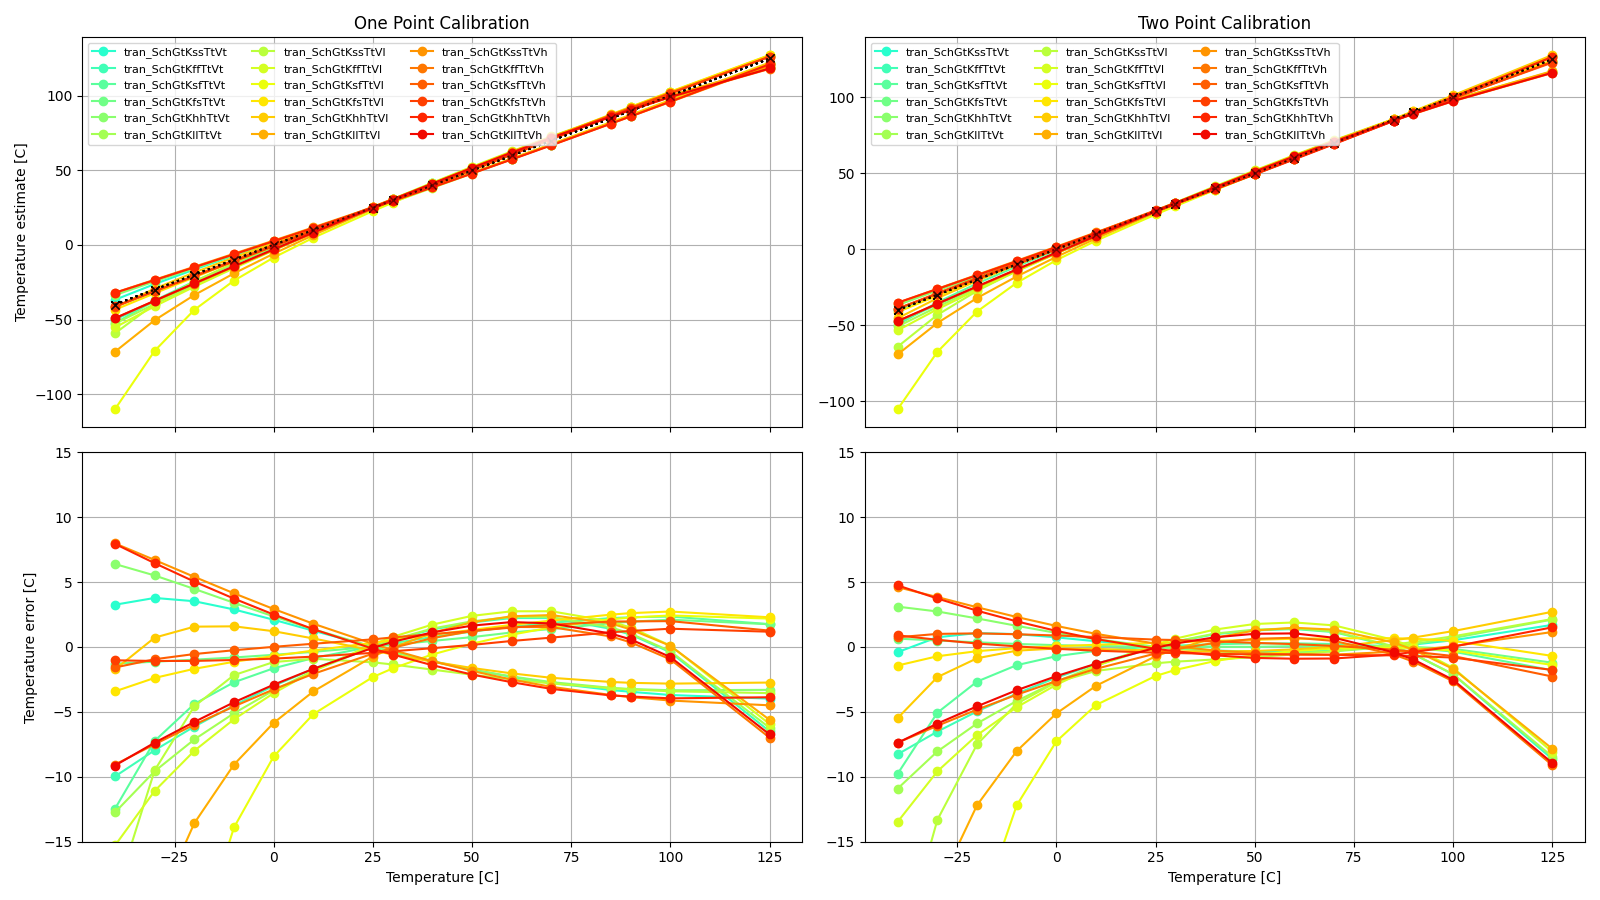
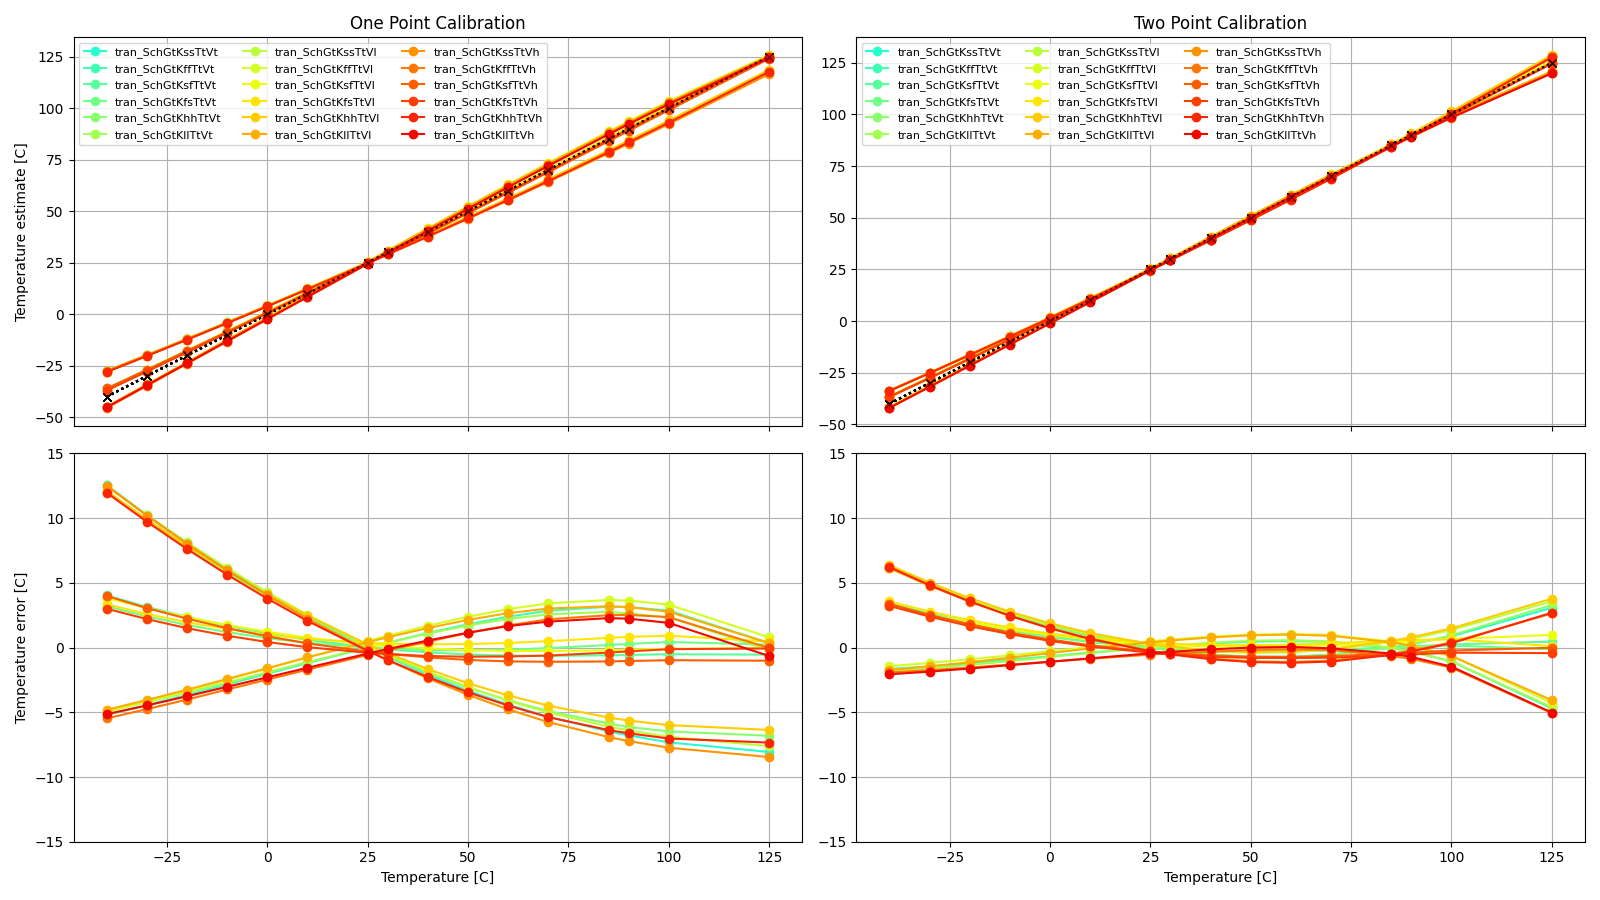
sim(LELO_TEMP): re-run Sch and Lay, refresh results and README plots
Full Sch suite (calibrate typical/process/mc, tran typical + 18
corners + 10x MC) and both Lay runs (typical, supply) re-run against
today's layout -- the strapped rings, the completed top routing and
the antenna diodes, none of which the old results had seen. The three
plots the top README embeds are regenerated from the fresh runs; the
per-run tables live in sim/LELO_TEMP/README.md (results/ artifacts
stay local by the repo's ignore policy).

THE LAY RUNS NEEDED THEIR OWN CALIBRATION. tran.py pairs a tran run
with the calibrate run of the SAME view, and only Sch calibration had
been refreshed: the fresh Lay tran against the stale Lay calibration
reported ind_1p_min at -20.4 C, which read like the layout had broken.
With calibrate re-run on the extracted view, Lay is honest:
ind_1p +11.2/-8.2 C, inside the +/-15 spec.

What the fresh table flags, all real:

  * idd_25 fast corner: 107.8 uA against the 100 uA spec max.
  * freq_min: the -40 C frequency sits under the 1.5 MHz spec floor
    in slow corners (Sch 1.35, MC -3std 1.28) -- and the extraction's
    ~18% uniform slowdown puts Lay typical-cold there too (1.40).
  * FOM MC low end goes negative at 3 sigma on a 10-sample run.

Also in this commit: the README's "How it works" / "How to test"
sections (the TT docs source) with the wording tightened.

Claude-Session: https://claude.ai/code/session_01V2NXKz4pJqzwkkQt9GQ19N

diff --git a/sim/LELO_TEMP/README.md b/sim/LELO_TEMP/README.md
@@ -15,81 +15,81 @@ Sch corners already bound the process spread.
 |**Name**|**Parameter**|**Description**| |**Min**|**Typ**|**Max**| Unit|
 |:---|:---|:---|---:|:---:|:---:|:---:| ---:|
 ||**idd\_25** || **Spec**  | **5.000** | **30.000** | **100.000** | **uA** |
-| | | |<a href='results/tran_Sch_typical.html'>Sch_typ</a>| | 76.304 |  | |
-| | | |<a href='results/tran_Sch_etc.html'>Sch_etc</a>|50.720 | 76.415 | <span style='color:red'>**105.687**</span> | |
-| | | |<a href='results/tran_Sch_mc.html'>Sch_3std</a>|66.503 | 75.053 | 83.604 | |
-| | | |<a href='results/tran_Lay_typical.html'>Lay_typ</a>| | 75.585 |  | |
-| | | |<a href='results/tran_Lay_supply.html'>Lay_supply</a>|64.334 | 75.585 | 85.807 | |
+| | | |<a href='results/tran_Sch_typical.html'>Sch_typ</a>| | 84.387 |  | |
+| | | |<a href='results/tran_Sch_etc.html'>Sch_etc</a>|64.320 | 84.426 | <span style='color:red'>**107.774**</span> | |
+| | | |<a href='results/tran_Sch_mc.html'>Sch_3std</a>|73.500 | 83.903 | 94.306 | |
+| | | |<a href='results/tran_Lay_typical.html'>Lay_typ</a>| | 83.073 |  | |
+| | | |<a href='results/tran_Lay_supply.html'>Lay_supply</a>|76.911 | 83.073 | 88.967 | |
 ||**iddq\_25** || **Spec**  | **0.000** | **10.000** | **50.000** | **nA** |
-| | | |<a href='results/tran_Sch_typical.html'>Sch_typ</a>| | 5.981 |  | |
-| | | |<a href='results/tran_Sch_etc.html'>Sch_etc</a>|5.914 | 6.267 | 45.647 | |
-| | | |<a href='results/tran_Sch_mc.html'>Sch_3std</a>|5.870 | 6.014 | 6.158 | |
-| | | |<a href='results/tran_Lay_typical.html'>Lay_typ</a>| | 8.730 |  | |
-| | | |<a href='results/tran_Lay_supply.html'>Lay_supply</a>|8.186 | 8.730 | 9.154 | |
+| | | |<a href='results/tran_Sch_typical.html'>Sch_typ</a>| | 7.140 |  | |
+| | | |<a href='results/tran_Sch_etc.html'>Sch_etc</a>|6.943 | 7.488 | 46.459 | |
+| | | |<a href='results/tran_Sch_mc.html'>Sch_3std</a>|6.872 | 7.148 | 7.424 | |
+| | | |<a href='results/tran_Lay_typical.html'>Lay_typ</a>| | 11.061 |  | |
+| | | |<a href='results/tran_Lay_supply.html'>Lay_supply</a>|10.164 | 11.061 | 11.753 | |
 ||**ind\_1p\_max** |Industrial 1 point calibration| **Spec**  | **-15.000** | **0.000** | **15.000** | **C** |
-| | | |<a href='results/tran_Sch_typical.html'>Sch_typ</a>| | 2.087 |  | |
-| | | |<a href='results/tran_Sch_etc.html'>Sch_etc</a>|-0.907 | 2.329 | 7.975 | |
-| | | |<a href='results/tran_Sch_mc.html'>Sch_3std</a>|-2.308 | 4.140 | 10.589 | |
-| | | |<a href='results/tran_Lay_typical.html'>Lay_typ</a>| | 4.400 |  | |
-| | | |<a href='results/tran_Lay_supply.html'>Lay_supply</a>|-0.761 | 4.400 | 8.313 | |
+| | | |<a href='results/tran_Sch_typical.html'>Sch_typ</a>| | 3.686 |  | |
+| | | |<a href='results/tran_Sch_etc.html'>Sch_etc</a>|2.274 | 3.747 | 12.542 | |
+| | | |<a href='results/tran_Sch_mc.html'>Sch_3std</a>|-2.193 | 4.196 | 10.584 | |
+| | | |<a href='results/tran_Lay_typical.html'>Lay_typ</a>| | 11.241 |  | |
+| | | |<a href='results/tran_Lay_supply.html'>Lay_supply</a>|11.184 | 11.197 | 11.241 | |
 ||**ind\_1p\_min** |Industrial 1 point calibration| **Spec**  | **-15.000** | **0.000** | **15.000** | **C** |
-| | | |<a href='results/tran_Sch_typical.html'>Sch_typ</a>| | -3.268 |  | |
-| | | |<a href='results/tran_Sch_etc.html'>Sch_etc</a>|<span style='color:red'>**-70.054**</span> | -6.776 | -1.079 | |
-| | | |<a href='results/tran_Sch_mc.html'>Sch_3std</a>|-14.512 | -4.879 | 4.753 | |
-| | | |<a href='results/tran_Lay_typical.html'>Lay_typ</a>| | -6.528 |  | |
-| | | |<a href='results/tran_Lay_supply.html'>Lay_supply</a>|<span style='color:red'>**-15.808**</span> | -6.987 | -6.528 | |
+| | | |<a href='results/tran_Sch_typical.html'>Sch_typ</a>| | -0.372 |  | |
+| | | |<a href='results/tran_Sch_etc.html'>Sch_etc</a>|-8.457 | -5.056 | 0.250 | |
+| | | |<a href='results/tran_Sch_mc.html'>Sch_3std</a>|-3.057 | -0.772 | 1.513 | |
+| | | |<a href='results/tran_Lay_typical.html'>Lay_typ</a>| | -8.171 |  | |
+| | | |<a href='results/tran_Lay_supply.html'>Lay_supply</a>|-8.529 | -8.171 | -7.681 | |
 ||**ind\_2p\_max** |Industrial 2 point calibration| **Spec**  | **-10.000** | **0.000** | **10.000** | **C** |
-| | | |<a href='results/tran_Sch_typical.html'>Sch_typ</a>| | 0.150 |  | |
-| | | |<a href='results/tran_Sch_etc.html'>Sch_etc</a>|-0.045 | 1.407 | 4.740 | |
-| | | |<a href='results/tran_Sch_mc.html'>Sch_3std</a>|-1.667 | 0.673 | 3.014 | |
-| | | |<a href='results/tran_Lay_typical.html'>Lay_typ</a>| | 0.898 |  | |
-| | | |<a href='results/tran_Lay_supply.html'>Lay_supply</a>|0.735 | 0.898 | 4.211 | |
+| | | |<a href='results/tran_Sch_typical.html'>Sch_typ</a>| | 3.584 |  | |
+| | | |<a href='results/tran_Sch_etc.html'>Sch_etc</a>|-0.139 | 3.392 | 6.364 | |
+| | | |<a href='results/tran_Sch_mc.html'>Sch_3std</a>|-1.739 | 3.440 | 8.620 | |
+| | | |<a href='results/tran_Lay_typical.html'>Lay_typ</a>| | 5.706 |  | |
+| | | |<a href='results/tran_Lay_supply.html'>Lay_supply</a>|5.643 | 5.657 | 5.706 | |
 ||**ind\_2p\_min** |Industrial 2 point calibration| **Spec**  | **-10.000** | **0.000** | **10.000** | **C** |
-| | | |<a href='results/tran_Sch_typical.html'>Sch_typ</a>| | -1.503 |  | |
-| | | |<a href='results/tran_Sch_etc.html'>Sch_etc</a>|<span style='color:red'>**-65.339**</span> | -7.051 | -0.398 | |
-| | | |<a href='results/tran_Sch_mc.html'>Sch_3std</a>|-5.901 | -1.982 | 1.938 | |
-| | | |<a href='results/tran_Lay_typical.html'>Lay_typ</a>| | -0.224 |  | |
-| | | |<a href='results/tran_Lay_supply.html'>Lay_supply</a>|<span style='color:red'>**-21.655**</span> | -0.393 | -0.224 | |
+| | | |<a href='results/tran_Sch_typical.html'>Sch_typ</a>| | -0.327 |  | |
+| | | |<a href='results/tran_Sch_etc.html'>Sch_etc</a>|-5.069 | -0.768 | 0.112 | |
+| | | |<a href='results/tran_Sch_mc.html'>Sch_3std</a>|-0.819 | -0.390 | 0.040 | |
+| | | |<a href='results/tran_Lay_typical.html'>Lay_typ</a>| | -0.584 |  | |
+| | | |<a href='results/tran_Lay_supply.html'>Lay_supply</a>|-1.022 | -0.584 | -0.271 | |
 ||**com\_1p\_max** |Commercial 1 point calibration| **Spec**  | **-10.000** | **0.000** | **10.000** | **C** |
-| | | |<a href='results/tran_Sch_typical.html'>Sch_typ</a>| | 1.546 |  | |
-| | | |<a href='results/tran_Sch_etc.html'>Sch_etc</a>|-0.907 | 1.975 | 2.923 | |
-| | | |<a href='results/tran_Sch_mc.html'>Sch_3std</a>|-1.268 | 2.662 | 6.593 | |
-| | | |<a href='results/tran_Lay_typical.html'>Lay_typ</a>| | 2.221 |  | |
-| | | |<a href='results/tran_Lay_supply.html'>Lay_supply</a>|-0.761 | 2.221 | 3.062 | |
+| | | |<a href='results/tran_Sch_typical.html'>Sch_typ</a>| | 0.917 |  | |
+| | | |<a href='results/tran_Sch_etc.html'>Sch_etc</a>|0.430 | 2.704 | 4.272 | |
+| | | |<a href='results/tran_Sch_mc.html'>Sch_3std</a>|-0.480 | 1.353 | 3.186 | |
+| | | |<a href='results/tran_Lay_typical.html'>Lay_typ</a>| | 3.686 |  | |
+| | | |<a href='results/tran_Lay_supply.html'>Lay_supply</a>|3.482 | 3.686 | 3.826 | |
 ||**com\_1p\_min** |Commercial 1 point calibration| **Spec**  | **-10.000** | **0.000** | **10.000** | **C** |
-| | | |<a href='results/tran_Sch_typical.html'>Sch_typ</a>| | -0.822 |  | |
-| | | |<a href='results/tran_Sch_etc.html'>Sch_etc</a>|-8.434 | -2.859 | 0.011 | |
-| | | |<a href='results/tran_Sch_mc.html'>Sch_3std</a>|-4.477 | -1.489 | 1.499 | |
-| | | |<a href='results/tran_Lay_typical.html'>Lay_typ</a>| | -3.165 |  | |
-| | | |<a href='results/tran_Lay_supply.html'>Lay_supply</a>|-3.394 | -3.385 | -3.165 | |
+| | | |<a href='results/tran_Sch_typical.html'>Sch_typ</a>| | -0.372 |  | |
+| | | |<a href='results/tran_Sch_etc.html'>Sch_etc</a>|-5.760 | -1.970 | 0.250 | |
+| | | |<a href='results/tran_Sch_mc.html'>Sch_3std</a>|-2.719 | -0.669 | 1.382 | |
+| | | |<a href='results/tran_Lay_typical.html'>Lay_typ</a>| | -4.582 |  | |
+| | | |<a href='results/tran_Lay_supply.html'>Lay_supply</a>|-4.977 | -4.582 | -4.319 | |
 ||**com\_2p\_max** |Commercial 2 point calibration| **Spec**  | **-5.000** | **0.000** | **5.000** | **C** |
-| | | |<a href='results/tran_Sch_typical.html'>Sch_typ</a>| | 0.150 |  | |
-| | | |<a href='results/tran_Sch_etc.html'>Sch_etc</a>|-0.318 | 0.812 | 1.887 | |
-| | | |<a href='results/tran_Sch_mc.html'>Sch_3std</a>|-0.207 | 0.377 | 0.960 | |
-| | | |<a href='results/tran_Lay_typical.html'>Lay_typ</a>| | 0.573 |  | |
-| | | |<a href='results/tran_Lay_supply.html'>Lay_supply</a>|-0.373 | 0.573 | 1.475 | |
+| | | |<a href='results/tran_Sch_typical.html'>Sch_typ</a>| | 0.877 |  | |
+| | | |<a href='results/tran_Sch_etc.html'>Sch_etc</a>|-0.139 | 0.990 | 1.868 | |
+| | | |<a href='results/tran_Sch_mc.html'>Sch_3std</a>|-0.510 | 0.861 | 2.231 | |
+| | | |<a href='results/tran_Lay_typical.html'>Lay_typ</a>| | 1.491 |  | |
+| | | |<a href='results/tran_Lay_supply.html'>Lay_supply</a>|1.267 | 1.491 | 1.646 | |
 ||**com\_2p\_min** |Commercial 2 point calibration| **Spec**  | **-5.000** | **0.000** | **5.000** | **C** |
-| | | |<a href='results/tran_Sch_typical.html'>Sch_typ</a>| | -0.047 |  | |
-| | | |<a href='results/tran_Sch_etc.html'>Sch_etc</a>|<span style='color:red'>**-7.267**</span> | -0.807 | 0.080 | |
-| | | |<a href='results/tran_Sch_mc.html'>Sch_3std</a>|-1.042 | -0.297 | 0.447 | |
-| | | |<a href='results/tran_Lay_typical.html'>Lay_typ</a>| | -0.224 |  | |
-| | | |<a href='results/tran_Lay_supply.html'>Lay_supply</a>|-2.646 | -0.393 | -0.224 | |
+| | | |<a href='results/tran_Sch_typical.html'>Sch_typ</a>| | -0.327 |  | |
+| | | |<a href='results/tran_Sch_etc.html'>Sch_etc</a>|-1.173 | -0.687 | 0.179 | |
+| | | |<a href='results/tran_Sch_mc.html'>Sch_3std</a>|-0.862 | -0.308 | 0.245 | |
+| | | |<a href='results/tran_Lay_typical.html'>Lay_typ</a>| | -0.584 |  | |
+| | | |<a href='results/tran_Lay_supply.html'>Lay_supply</a>|-1.022 | -0.584 | -0.271 | |
 ||**freq\_min** |Frequency| **Spec**  | **1.500** | **3.000** | **4.800** | **MHz** |
-| | | |<a href='results/tran_Sch_typical.html'>Sch_typ</a>| | 1.877 |  | |
-| | | |<a href='results/tran_Sch_etc.html'>Sch_etc</a>|<span style='color:red'>**1.136**</span> | 1.881 | 2.527 | |
-| | | |<a href='results/tran_Sch_mc.html'>Sch_3std</a>|<span style='color:orange'>**1.451**</span> | 1.838 | 2.226 | |
-| | | |<a href='results/tran_Lay_typical.html'>Lay_typ</a>| | <span style='color:orange'>**1.458**</span> |  | |
-| | | |<a href='results/tran_Lay_supply.html'>Lay_supply</a>|<span style='color:red'>**1.249**</span> | <span style='color:orange'>**1.458**</span> | <span style='color:orange'>**1.499**</span> | |
+| | | |<a href='results/tran_Sch_typical.html'>Sch_typ</a>| | 1.700 |  | |
+| | | |<a href='results/tran_Sch_etc.html'>Sch_etc</a>|<span style='color:red'>**1.345**</span> | 1.700 | 2.207 | |
+| | | |<a href='results/tran_Sch_mc.html'>Sch_3std</a>|<span style='color:red'>**1.277**</span> | 1.643 | 2.009 | |
+| | | |<a href='results/tran_Lay_typical.html'>Lay_typ</a>| | <span style='color:red'>**1.402**</span> |  | |
+| | | |<a href='results/tran_Lay_supply.html'>Lay_supply</a>|<span style='color:red'>**1.401**</span> | <span style='color:red'>**1.401**</span> | <span style='color:red'>**1.402**</span> | |
 ||**freq\_max** |Frequency| **Spec**  | **1.500** | **3.000** | **4.800** | **MHz** |
-| | | |<a href='results/tran_Sch_typical.html'>Sch_typ</a>| | 4.354 |  | |
-| | | |<a href='results/tran_Sch_etc.html'>Sch_etc</a>|3.402 | 4.349 | <span style='color:red'>**5.741**</span> | |
-| | | |<a href='results/tran_Sch_mc.html'>Sch_3std</a>|3.701 | 4.369 | <span style='color:orange'>**5.036**</span> | |
-| | | |<a href='results/tran_Lay_typical.html'>Lay_typ</a>| | 3.395 |  | |
-| | | |<a href='results/tran_Lay_supply.html'>Lay_supply</a>|3.387 | 3.395 | 3.402 | |
+| | | |<a href='results/tran_Sch_typical.html'>Sch_typ</a>| | 3.895 |  | |
+| | | |<a href='results/tran_Sch_etc.html'>Sch_etc</a>|3.081 | 3.891 | <span style='color:orange'>**5.027**</span> | |
+| | | |<a href='results/tran_Sch_mc.html'>Sch_3std</a>|3.229 | 3.829 | 4.430 | |
+| | | |<a href='results/tran_Lay_typical.html'>Lay_typ</a>| | 3.184 |  | |
+| | | |<a href='results/tran_Lay_supply.html'>Lay_supply</a>|3.179 | 3.184 | 3.191 | |
 ||**FOM** |Figure Of Merit| **Spec**  | **10.000** | **40.000** | **400.000** | **nAK** |
-| | | |<a href='results/tran_Sch_typical.html'>Sch_typ</a>| | <span style='color:red'>**5.754**</span> |  | |
-| | | |<a href='results/tran_Sch_etc.html'>Sch_etc</a>|<span style='color:red'>**8.516**</span> | 56.437 | 190.246 | |
-| | | |<a href='results/tran_Sch_mc.html'>Sch_3std</a>|<span style='color:red'>**-9.296**</span> | 19.448 | 48.193 | |
-| | | |<a href='results/tran_Lay_typical.html'>Lay_typ</a>| | 25.339 |  | |
-| | | |<a href='results/tran_Lay_supply.html'>Lay_supply</a>|25.339 | 63.221 | 66.004 | |
+| | | |<a href='results/tran_Sch_typical.html'>Sch_typ</a>| | 39.619 |  | |
+| | | |<a href='results/tran_Sch_etc.html'>Sch_etc</a>|26.409 | 56.920 | 100.304 | |
+| | | |<a href='results/tran_Sch_mc.html'>Sch_3std</a>|<span style='color:red'>**-22.911**</span> | 37.986 | 98.882 | |
+| | | |<a href='results/tran_Lay_typical.html'>Lay_typ</a>| | 75.563 |  | |
+| | | |<a href='results/tran_Lay_supply.html'>Lay_supply</a>|64.467 | 75.563 | 89.063 | |
 

diff --git a/README.md b/README.md
@@ -92,15 +92,14 @@ of the curve needs to be compensated for. See the python model for details.
 
 # How to test
 
-Power the tile (VDPWR = 1.8 V), then drive PWRUP_ANA (ui[0]) high to
+Power the tile, then drive PWRUP_ANA (ui[0]) high to
 power the analog core up. The temperature-dependent oscillator output
 appears on OSC_TEMP (uo[0]); measure its frequency with a counter or a
-logic analyzer. The frequency tracks temperature -- sweep the ambient
+logic analyzer. The frequency tracks temperaturw. Aweep the ambient
 and record frequency versus temperature to calibrate. Drive PWRUP_ANA
 low and the core powers down to leakage.
 
-No external hardware is required beyond something that can measure a
-digital frequency.
+No external hardware is required beyond something that can measure frequency.
 
 # Signal interface
 
@@ -143,38 +142,3 @@ Over mismatch and extreme test condition (ETC) the temperature error increase.
 
 <sub> Figure 6: Extreme test conditions (PVT) simulation of oscillator </sub>
 
-
-# Block level simulations
-
-The top level testbench measures the sensor as a whole, which makes it hard
-to say *which* block moved when a number changes. Two blocks are therefore
-also simulated on their own, with the bias block replaced by ideal 1 uA
-sources, so their contribution can be attributed directly.
-
-| Testbench | Block | Measures |
-|:---|:---|:---|
-| [sim/LELOTEMP_CMP](sim/LELOTEMP_CMP/README.md) | Comparator | Trip point, input referred offset, gain (`dc`); propagation delay at the real input slope (`tran`) |
-| [sim/LELOTEMP_CCMP](sim/LELOTEMP_CCMP/README.md) | Comparator + integrating caps | Half period, effective capacitance, reset residue (`tran`) |
-
-`LELOTEMP_CCMP` is the timing element of the relaxation oscillator: the 1 uA
-bias charges five MIM caps, and the comparator trips when the ramp passes VC.
-Its `t_half` is one half period of `OSC_TEMP_1V8`.
-
-The comparator delay is worth watching because it adds to *every* half period,
-so it is a direct period error rather than a second order effect. Both
-testbenches measure it independently and agree.
-
-Extraction costs roughly a factor two in that delay, and the effects compound:
-
-| | Sch | Lay |
-|:---|---:|---:|
-| `LELOTEMP_CMP` propagation delay | 4.51 ns | 11.17 ns |
-| `LELOTEMP_CCMP` effective capacitance | 285 fF | 316 fF |
-| `LELOTEMP_CCMP` half period | 217.8 ns | 247.9 ns |
-
-The parasitics add about 11% to the integrating capacitance and roughly double
-the comparator delay, which together account for the 14% longer half period --
-and for the extracted temperature error being about twice the schematic one.
-
-Run them with `make report` in either directory; `VIEW=Lay` switches to the
-extracted netlist.
